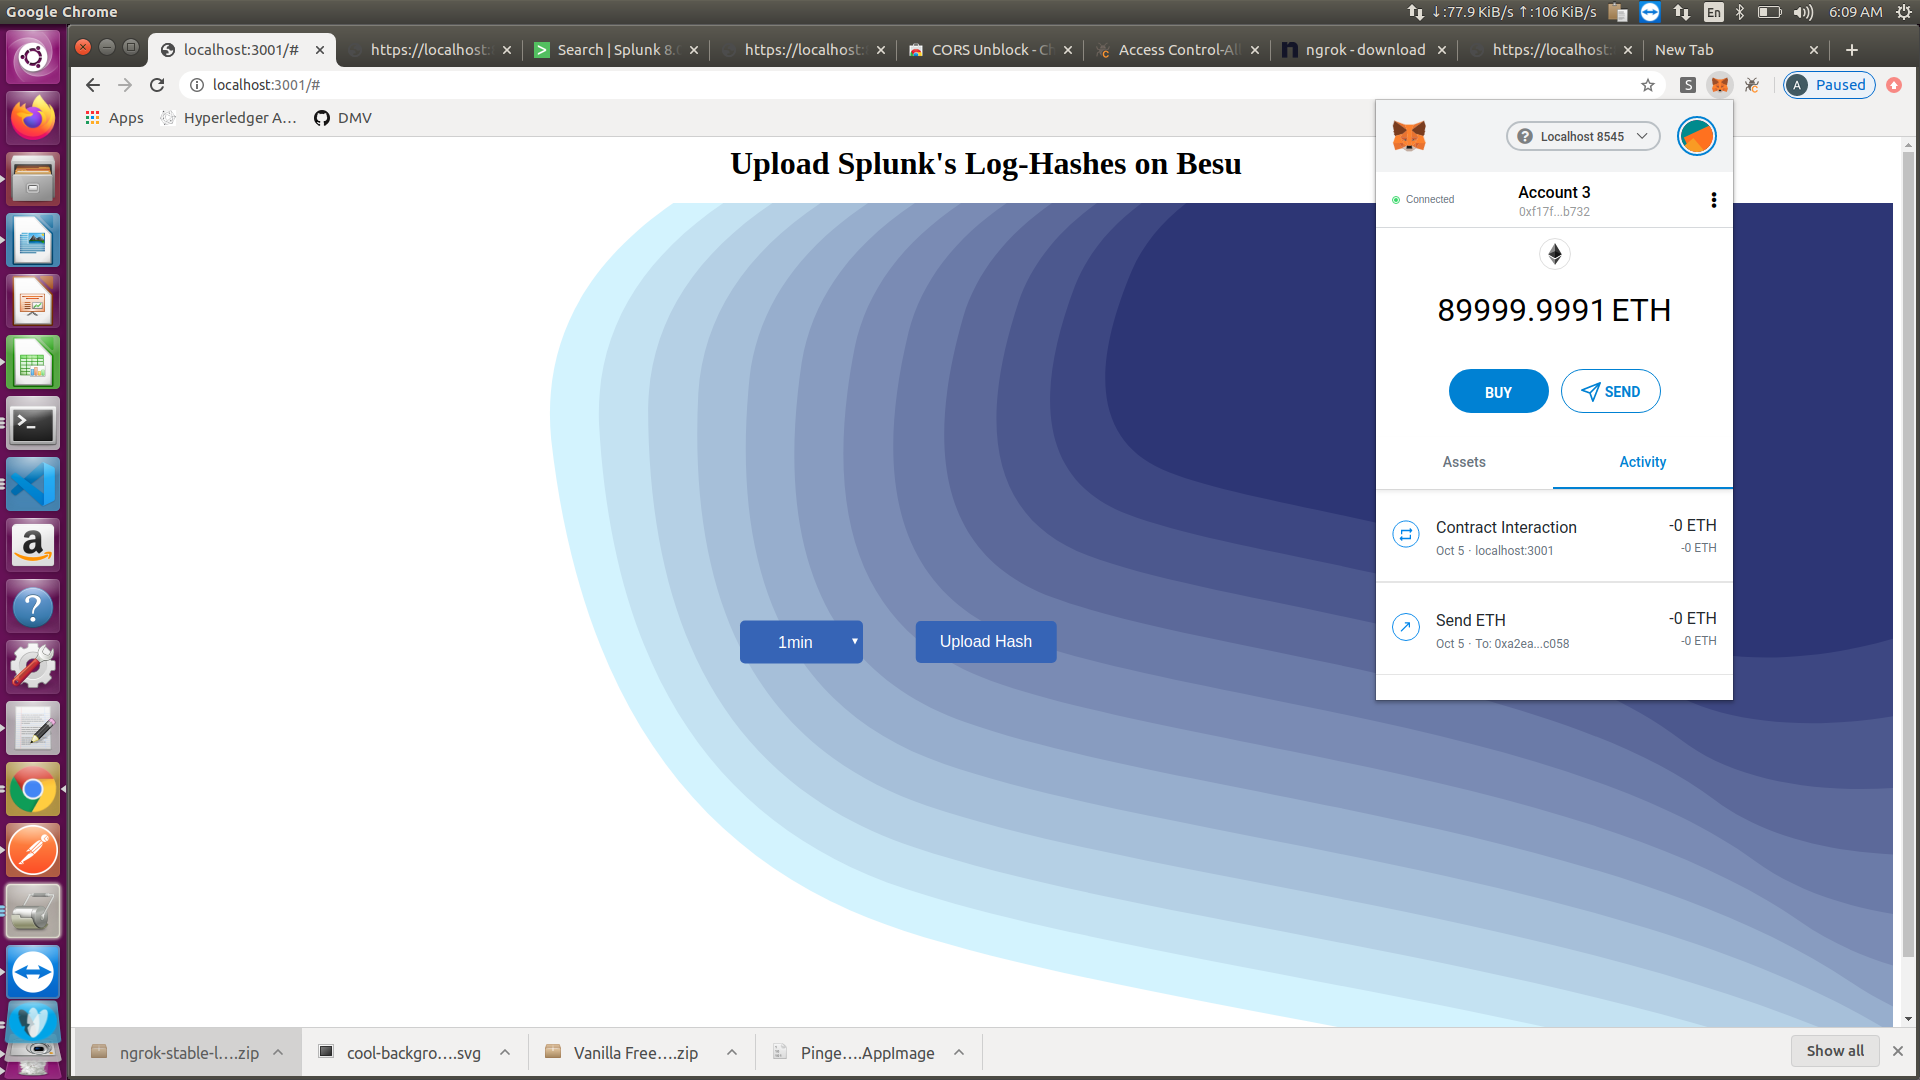
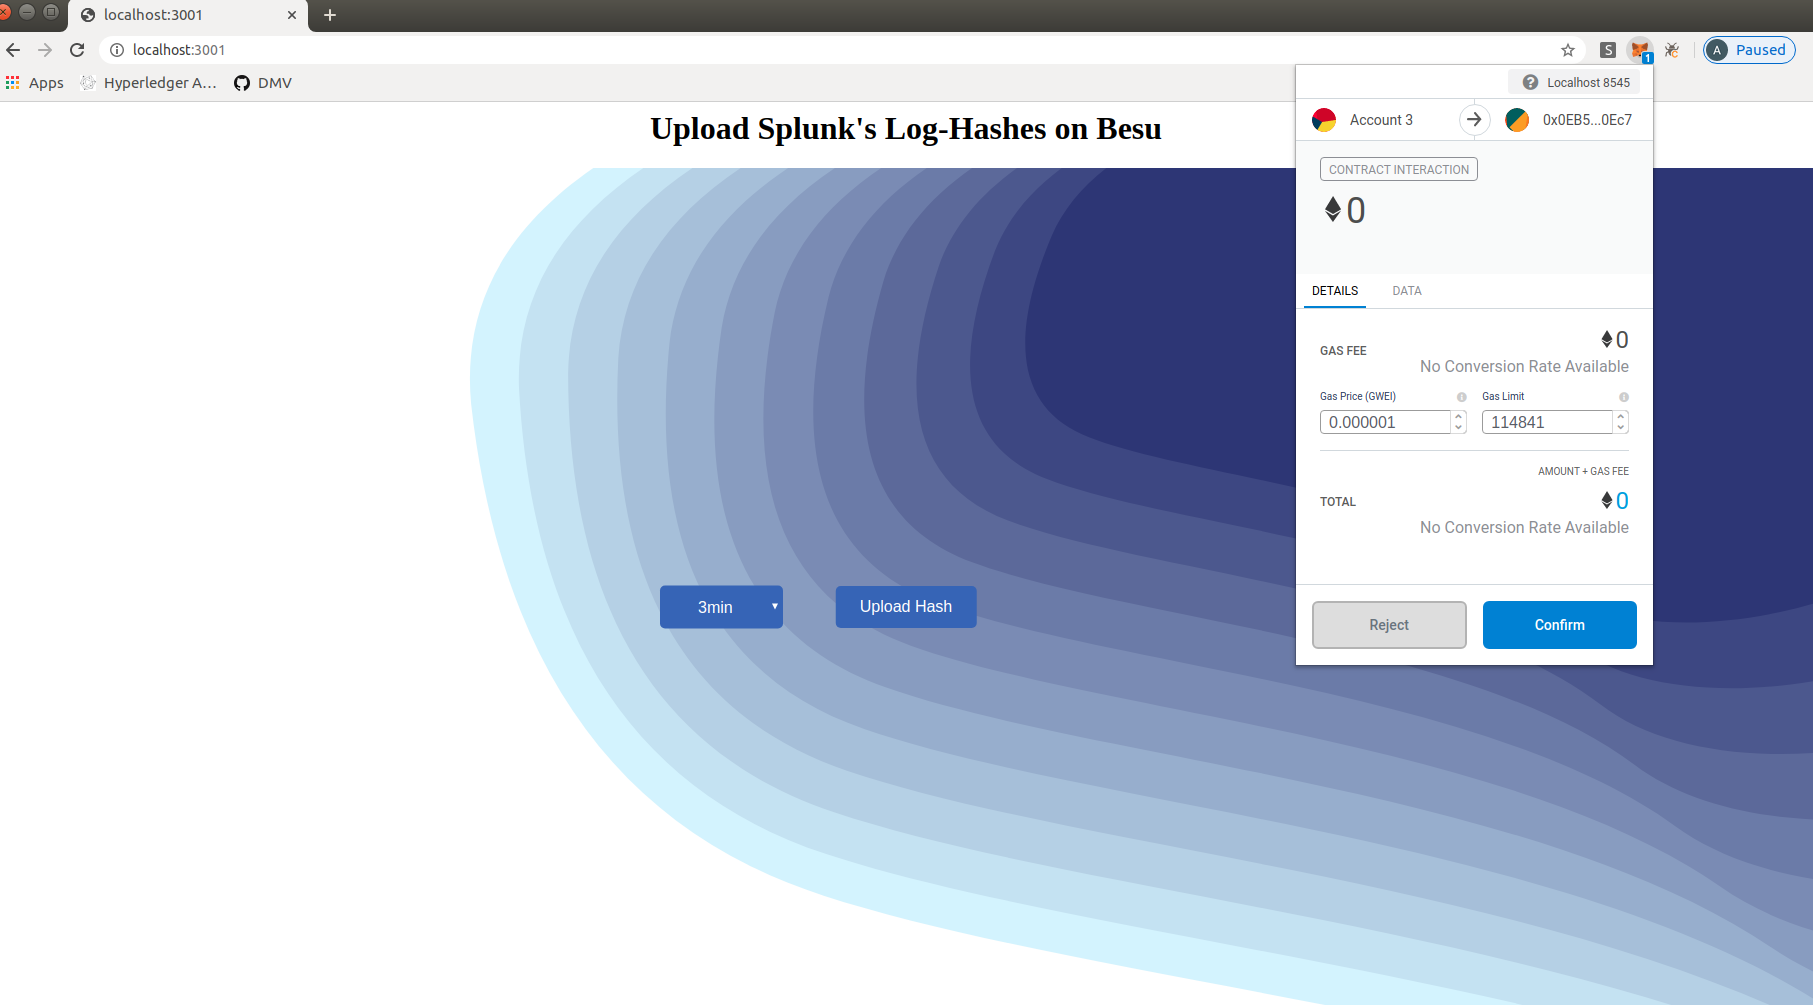
Readme edited

Changed region(s): [[0.0, 0.0, 1.0, 1.0], [0.7104, 0.2776, 0.8649, 0.3085]]

diff --git a/README.md b/README.md
@@ -49,7 +49,7 @@ Once the docker build is complete the app will be available at http://localhost:
 ```
 Step7: docker ps 
 
-To check all the containers are upmand running
+To check all the containers are up and running
 
 ```
 ### iii. Invoke Smart Contracts & DApp (with MetaMask) to store splunk's last 5 minutes _internal logs
@@ -59,12 +59,14 @@ To check all the containers are upmand running
 
 ![Image dapp](./DApp_LogHash/images/dapp_metamask.png)
 
-Open a new tab in your browser and go to `http://localhost:3001` select the time interval for the _internal logs and click the button , that will call the splunk REST endoint and render the _internal data
+Open a new tab in your browser and go to `http://localhost:3001` select the time interval for the _internal logs and click the button , that will call the splunk REST endoint and render the _internal data , hash it and stores it in blockchain by interacting with the smart contract
+
+![Image dapp](./DApp_LogHash/images/confirmed_transactions_onmetamask.png)
 
 
 (NOTE: I was experiencing CORS and Certificate Issue on the browser for going SPLUNKS REST point http://localhost:8089
 I have overcome CORS allow origin by adding * parameters to splunk.yml, certficate issue unfortunately I couldnt solve completely so I manually hit the API end point in the chrome browser for the first time  agreement and after that I can invoke contract for storing hash of the logfile from DApp )
-https://admin:changeme1@localhost:8089/services/search/jobs/export?earliest_time=-1m&latest_time=now&output_mode=raw&search=search%20index=_internal net::ERR_CERT_AUTHORITY_INVALID
+https://admin:changeme1@localhost:8089/services/search/jobs/export?earliest_time=-1m&latest_time=now&output_mode=raw&search=search%20index=_internal net::ERR_CERT_AUTHORITY_INVALID or you can use an ngrok service to avoid this error.
 
 ### iii. Viewing Logs on Splunk and creating Splunk Dashboard
 ![Image dapp](./DApp_LogHash/images/splunk_logs.png)
@@ -72,7 +74,8 @@ https://admin:changeme1@localhost:8089/services/search/jobs/export?earliest_time
 A copy of the dashboard is copied over to the project directory as dashboard.xml
 
 
-Ref
+Referencs:
 1:https://github.com/splunk/splunk-connect-for-ethereum
 2.https://docs.splunk.com/Documentation/Splunk/8.0.6/SearchTutorial/Aboutdashboards
-3.
+3.https://github.com/PegaSysEng/besu-sample-networks
+4.SplukApp for Quorum: https://www.youtube.com/watch?v=Fo2qaEn1_BQ
